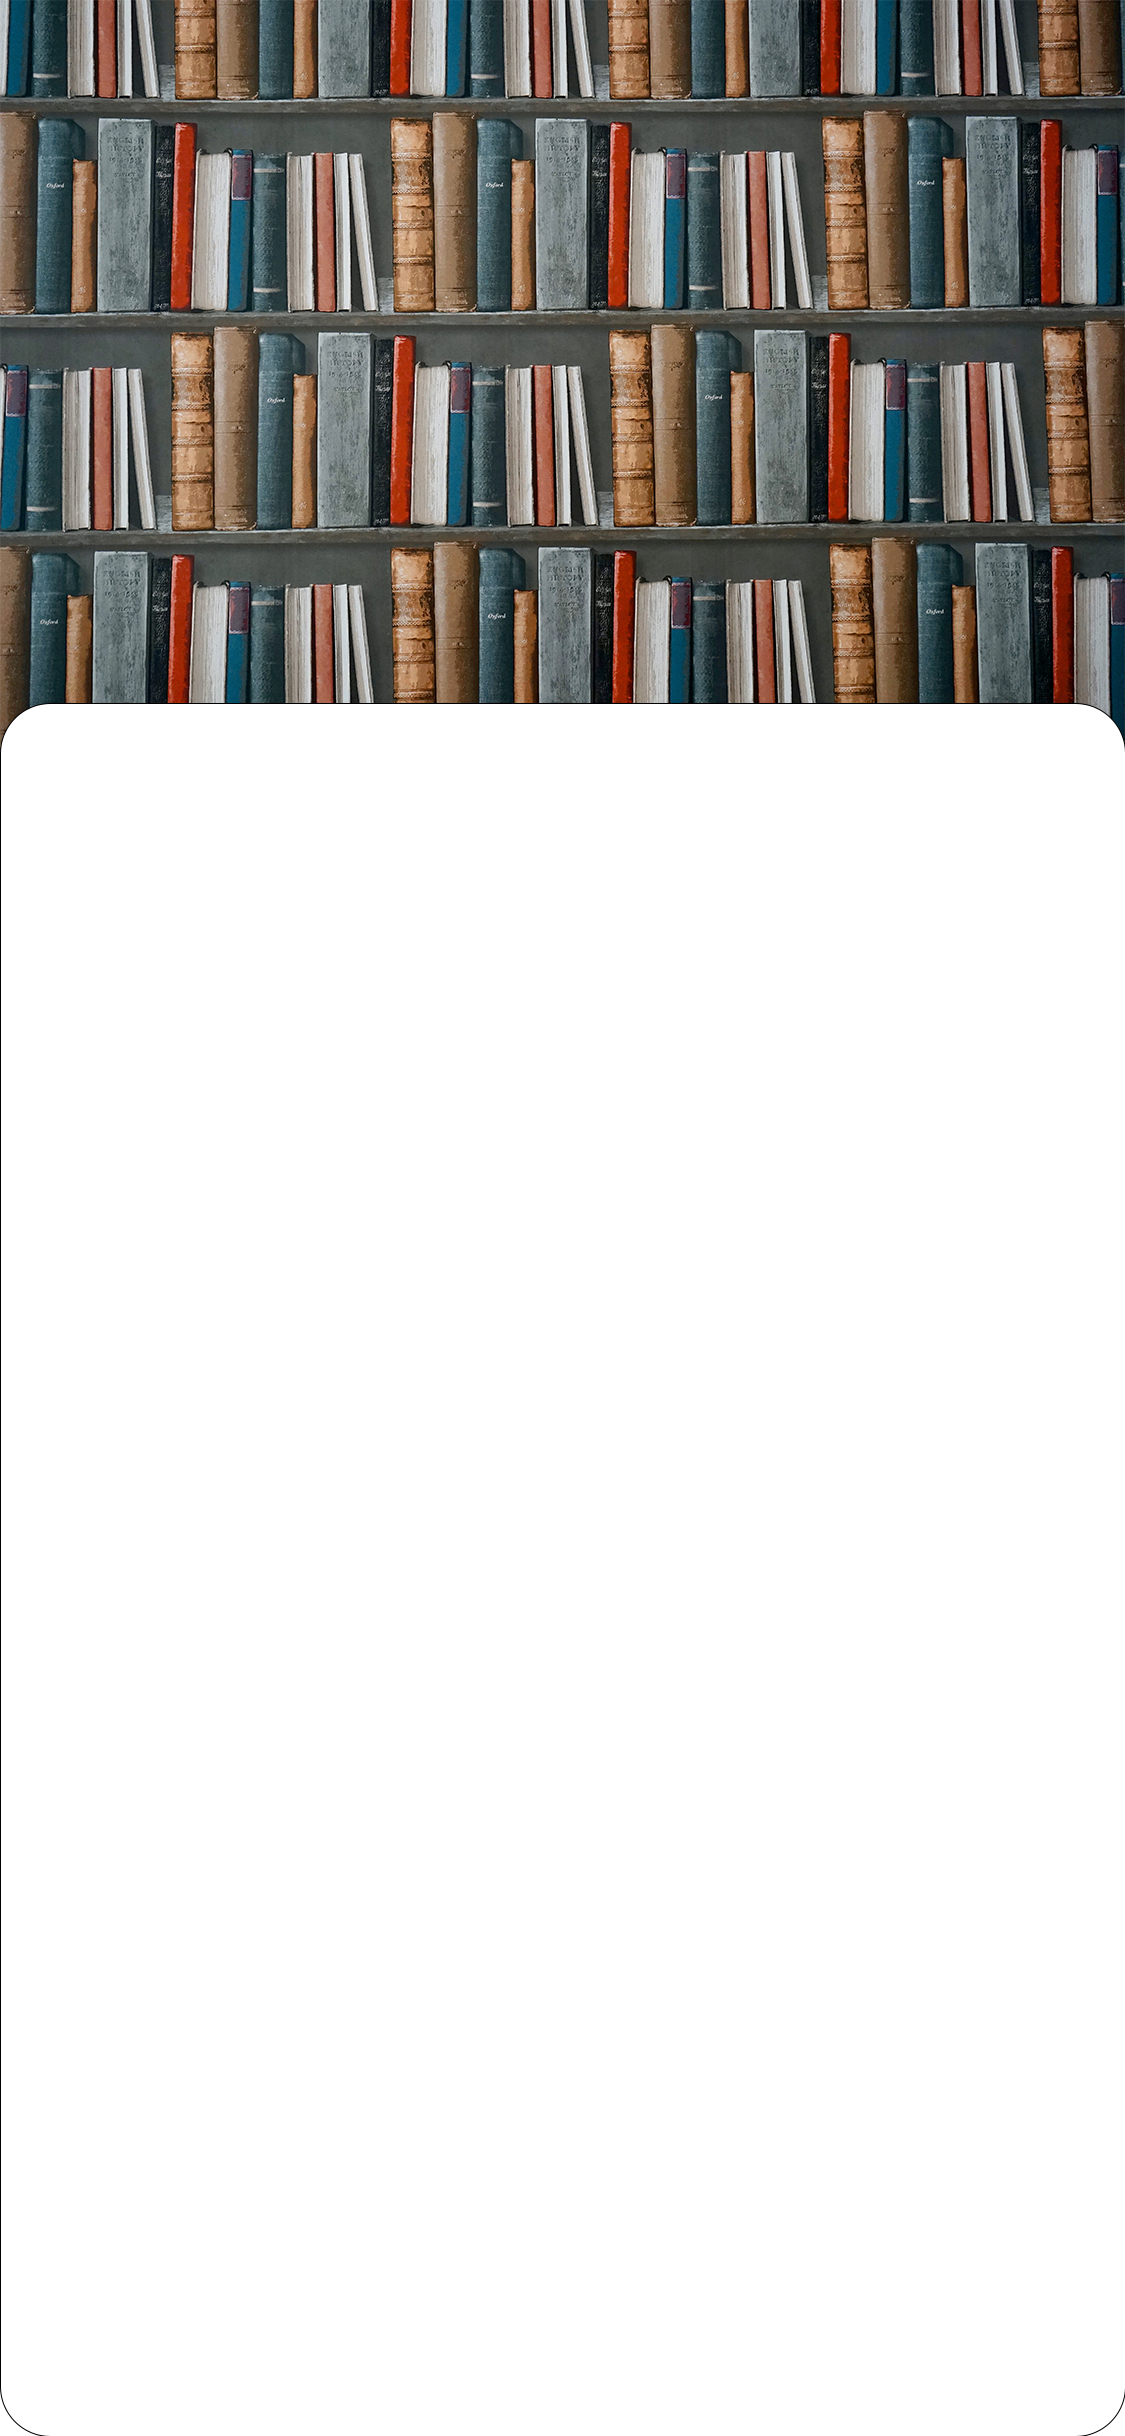
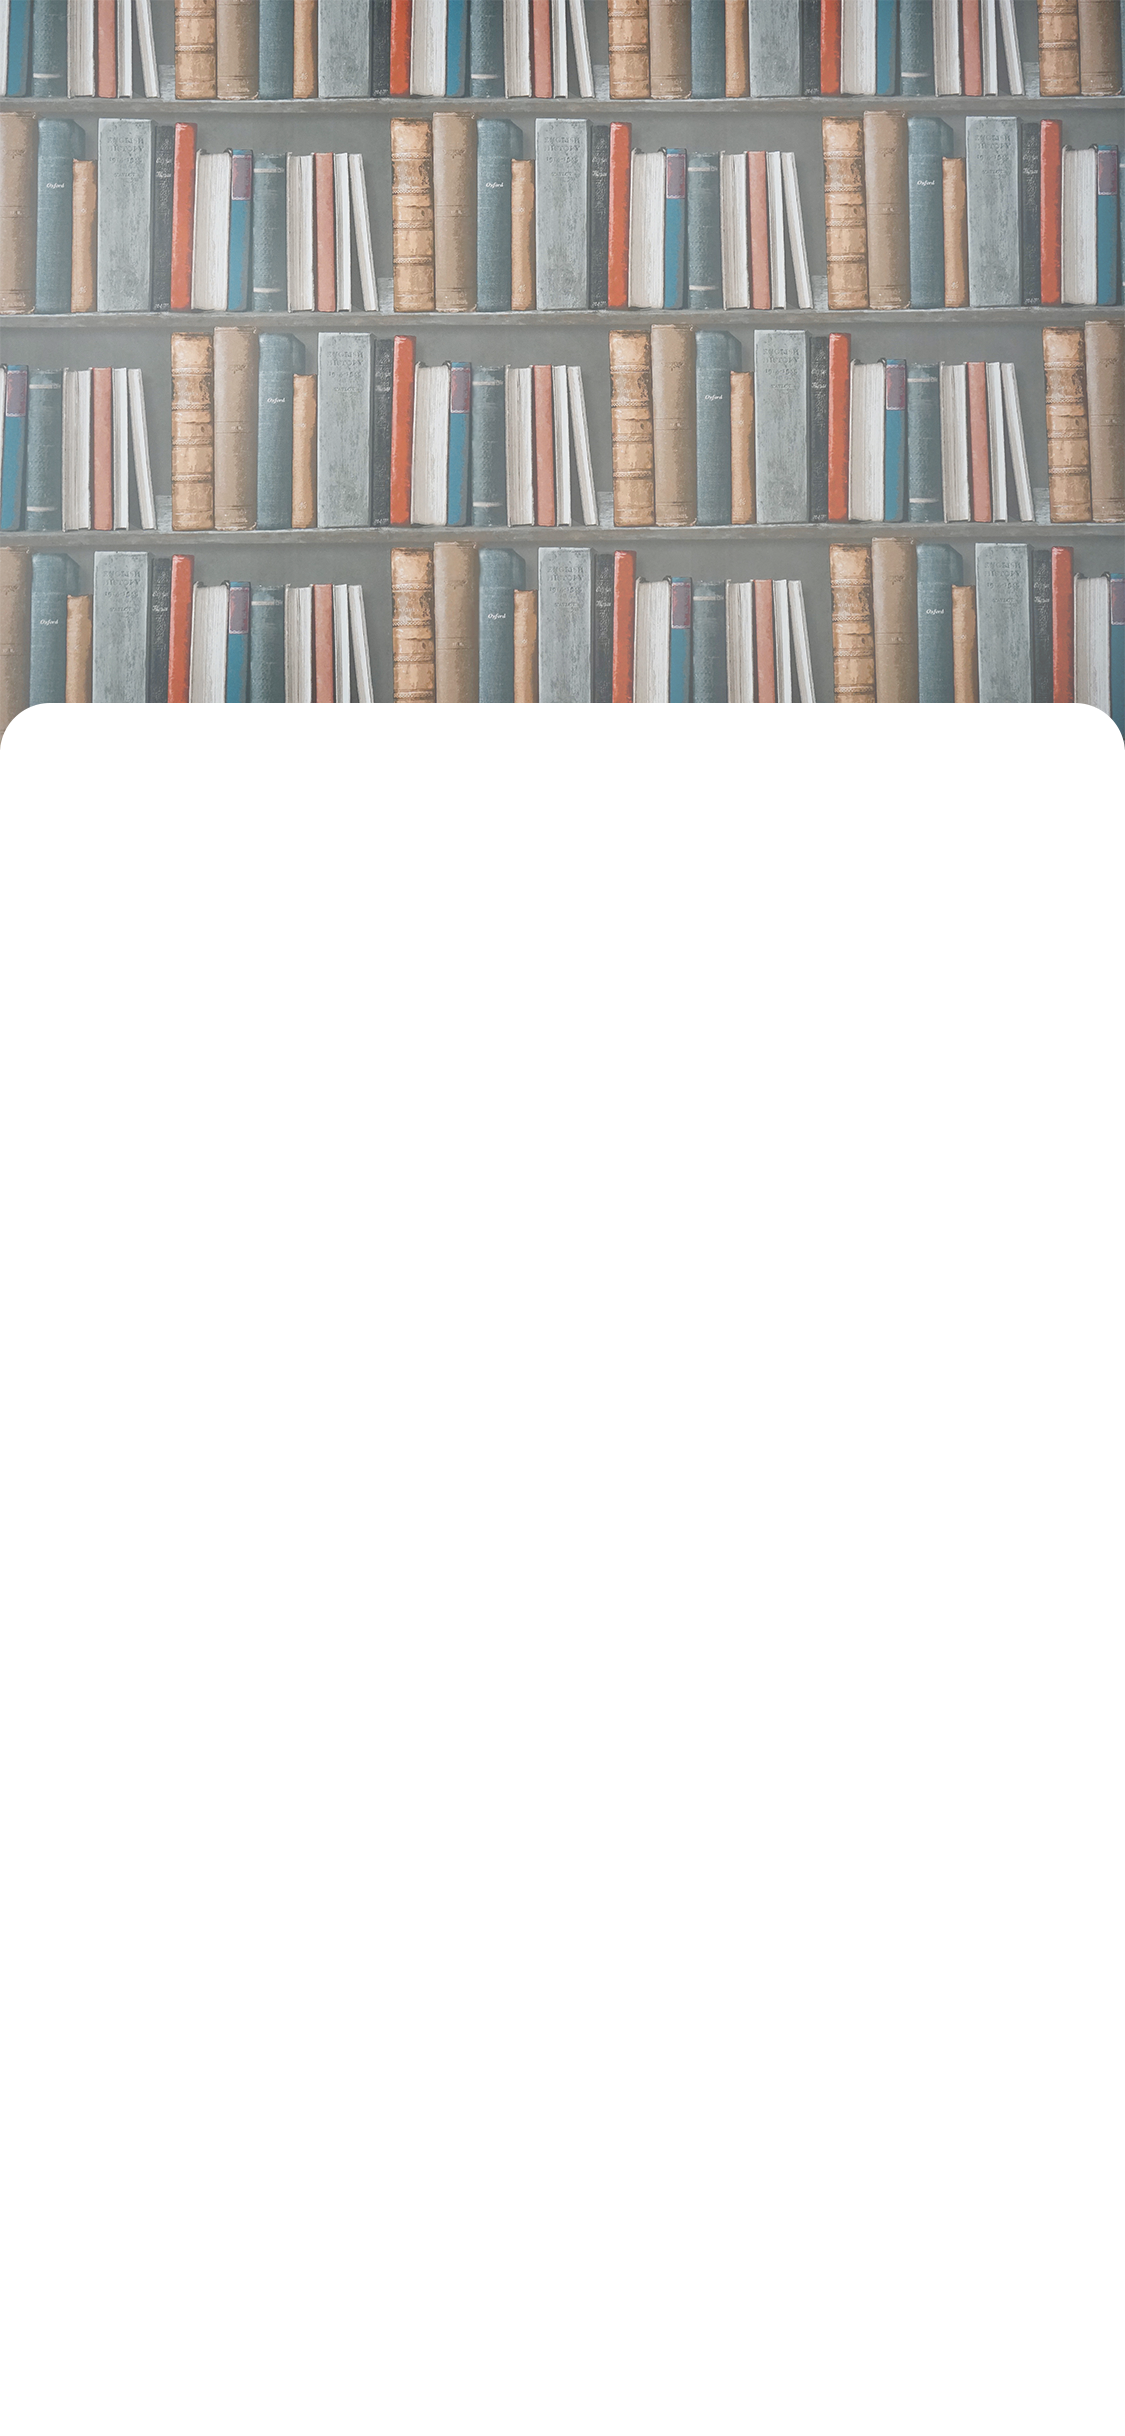
feat() : New Login UI - change background image in Register.js file. feat #feature/new_login_ui.

Changed region(s): [[0.0, 0.0, 1.0, 0.312], [0.9644, 0.9984, 0.9956, 1.0], [0.0311, 0.9984, 0.0622, 1.0]]

diff --git a/screens/Auth/Register.js b/screens/Auth/Register.js
@@ -184,23 +184,28 @@ export default function Register({navigation}) {
 
 
   return (
-    <SafeAreaView style={styles.conatiner}>
-            <ImageBackground style={[styles.conatiner ,{ justifyContent: 'center', width: '100%', height: '100%'}]}  source={require('../../assets/back.png')}>
+      <SafeAreaView style={styles.conatiner}>
+          <ImageBackground
+              style={[
+                  styles.conatiner,
+                  {justifyContent: 'center', width: '100%', height: '100%'},
+              ]}
+              source={require('../../assets/background-1.png')}>
+              <StatusBar barStyle={'dark-content'} translucent />
+              <View
+                  style={{
+                      flex: 1,
+                      top : '5%',
+                      justifyContent: 'center',
+                      alignItems: 'center',
+                  }}>
 
-      <StatusBar barStyle={'dark-content'} />
-      <View style={{ flex :1, 
-       
-       justifyContent : 'center',
-       alignItems : 'center',}}>
-              <View style={styles.square}>
-                  <Text style={styles.textLogo}>My Book</Text>
-              </View>
-              <View>
-                <Text style={styles.textWelecome}>Welcome to MyBook!</Text>
-                <Text style={styles.textKeepYourMind}>Keep your mind</Text>
-              </View>
+                  <View style={{ alignSelf : 'flex-start', alignItems : 'flex-start', justifyContent : 'flex-start'}} >
+                      <Text style={styles.textWelecome}>Welcome to MyBook!</Text>
+                      <Text style={styles.textKeepYourMind}>Keep your mind</Text>
+                  </View>
 
-              <View>
+                  <View>
                 <TextInput placeholder='username' onChangeText={handleChangeUserName}  style={styles.input}/>
                 <Text style={usernameTextError(checkUsername)}>{textErrorUsername}</Text>
 
@@ -269,26 +274,27 @@ const styles = StyleSheet.create({
      fontSize : 20,
      fontFamily : 'Quicksand-Regular'
   },
-  textWelecome : {
-    color : colors.primary,
-    // transform: [{ rotate: '180deg'}],
-     fontSize : 23,
-     fontFamily : 'Quicksand-bold',
-     color : colors.textColor,
-     textAlign : 'center'
+    textWelecome: {
+        top : '5%',
+        left : 15,
+        color: colors.primary,
+        // transform: [{ rotate: '180deg'}],
+        fontSize: 20,
 
+        color: colors.textColor,
+        textAlign: 'center',
+    },
+    textKeepYourMind: {
+        color: colors.primary,
+        // transform: [{ rotate: '180deg'}],
+        fontSize: 13,
+        top : '5%',
+        color: colors.textColor,
+        textAlign: 'center',
+        marginBottom: 30,
+        left : 15,
 
-  },
-  textKeepYourMind : {
-    color : colors.primary,
-    // transform: [{ rotate: '180deg'}],
-     fontSize : 15,
-     fontFamily : 'Quicksand-regular',
-     color : colors.textColor,
-     textAlign : 'center',
-     marginBottom : 40,
-
-  },
+    },
   loginBoutton :{
     
     backgroundColor : colors.primary,

diff --git a/screens/Auth/Login.js b/screens/Auth/Login.js
@@ -211,7 +211,7 @@ export default function Login({navigation}) {
               styles.conatiner,
               {justifyContent: 'center', width: '100%', height: '100%'},
             ]}
-            source={require('../../assets/background.png')}>
+            source={require('../../assets/background-1.png')} >
           <StatusBar barStyle={'dark-content'} translucent />
           <View
               style={{
